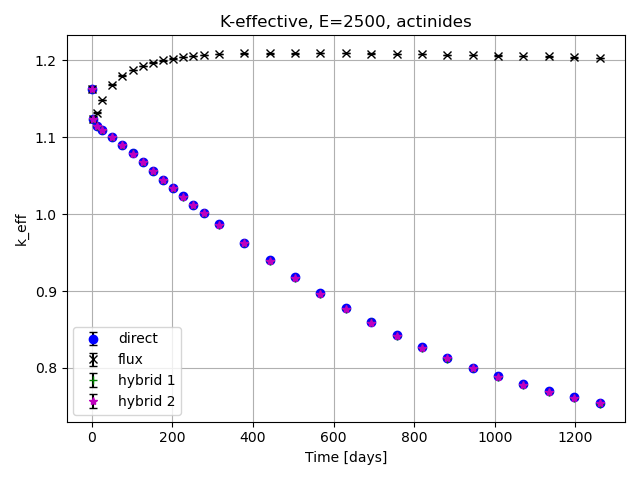
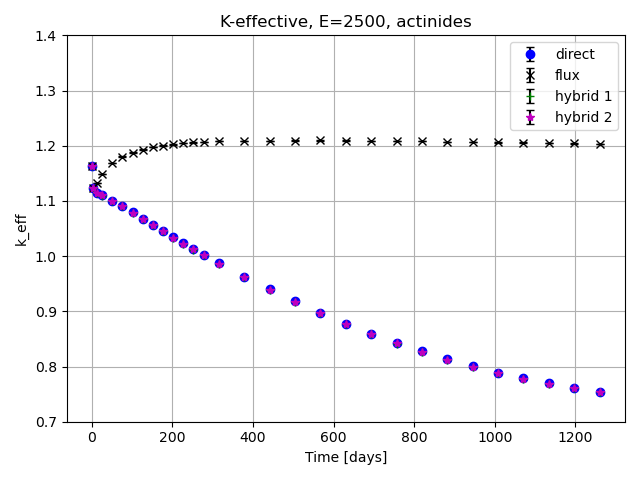
standardize y axes

diff --git a/analyze/plot_keff.py b/analyze/plot_keff.py
@@ -30,13 +30,14 @@ for egroup in groups:
         hybrid2_results = openmc.deplete.Results(root_path.format(run_info=f"hybrid2/{nucs}/{egroup}"))
         print("... loading complete")
 
-        ###############################################################################
-        #                      Plot K-eff regardless
-        ###############################################################################
+        ################################################################
+        #                         Plot K-eff
+        ################################################################
 
         _, keff_hy1 = hybrid1_results.get_keff()
         time, keff_hy2 = hybrid2_results.get_keff()
 
+        # absolute k-effective
         fig, ax = plt.subplots()
         ax.errorbar(time/day, keff_dir[:,0], yerr=2 * abs(keff_dir[:,1]),
                     fmt='bo', ecolor='black', label='direct', capsize=3)
@@ -47,16 +48,17 @@ for egroup in groups:
         ax.errorbar(time/day, keff_hy2[:,0], yerr=2 * abs(keff_hy2[:,1]),
                     fmt='m*', ecolor='black', label='hybrid 2', capsize=3)
 
-        #ax.axhline(color='k', linestyle='--')
         ax.set_xlabel("Time [days]")
         ax.set_ylabel("k_eff")
         ax.set_title(f"K-effective, E={egroup}, {nucs}")
+        ax.set_ylim([0.7, 1.4])
         ax.grid(True)
         ax.legend()
         plt.tight_layout()
         plt.savefig(f"figures/keff/keff_{nucs}_{egroup}.png")
         plt.close()
 
+        # relative difference
         h1_diff = (keff_hy1[:,0] - keff_dir[:,0]) * 1e5
         h2_diff = (keff_hy2[:,0] - keff_dir[:,0]) * 1e5
         h1_diff_err = np.sqrt((keff_hy1[:,1]**2 + keff_dir[:,1]**2)) * 1e5
@@ -69,6 +71,10 @@ for egroup in groups:
         ax.set_xlabel("Time [days]")
         ax.set_ylabel("k_eff diff, pcm")
         ax.set_title(f"K-effective diff, E={egroup}, {nucs}")
+        if egroup in [300, 500]:
+            ax.set_ylim([-800, 6000])
+        else:
+            ax.set_ylim([-200, 150])
         ax.legend()
         ax.grid(True, which='both')
         plt.tight_layout()
